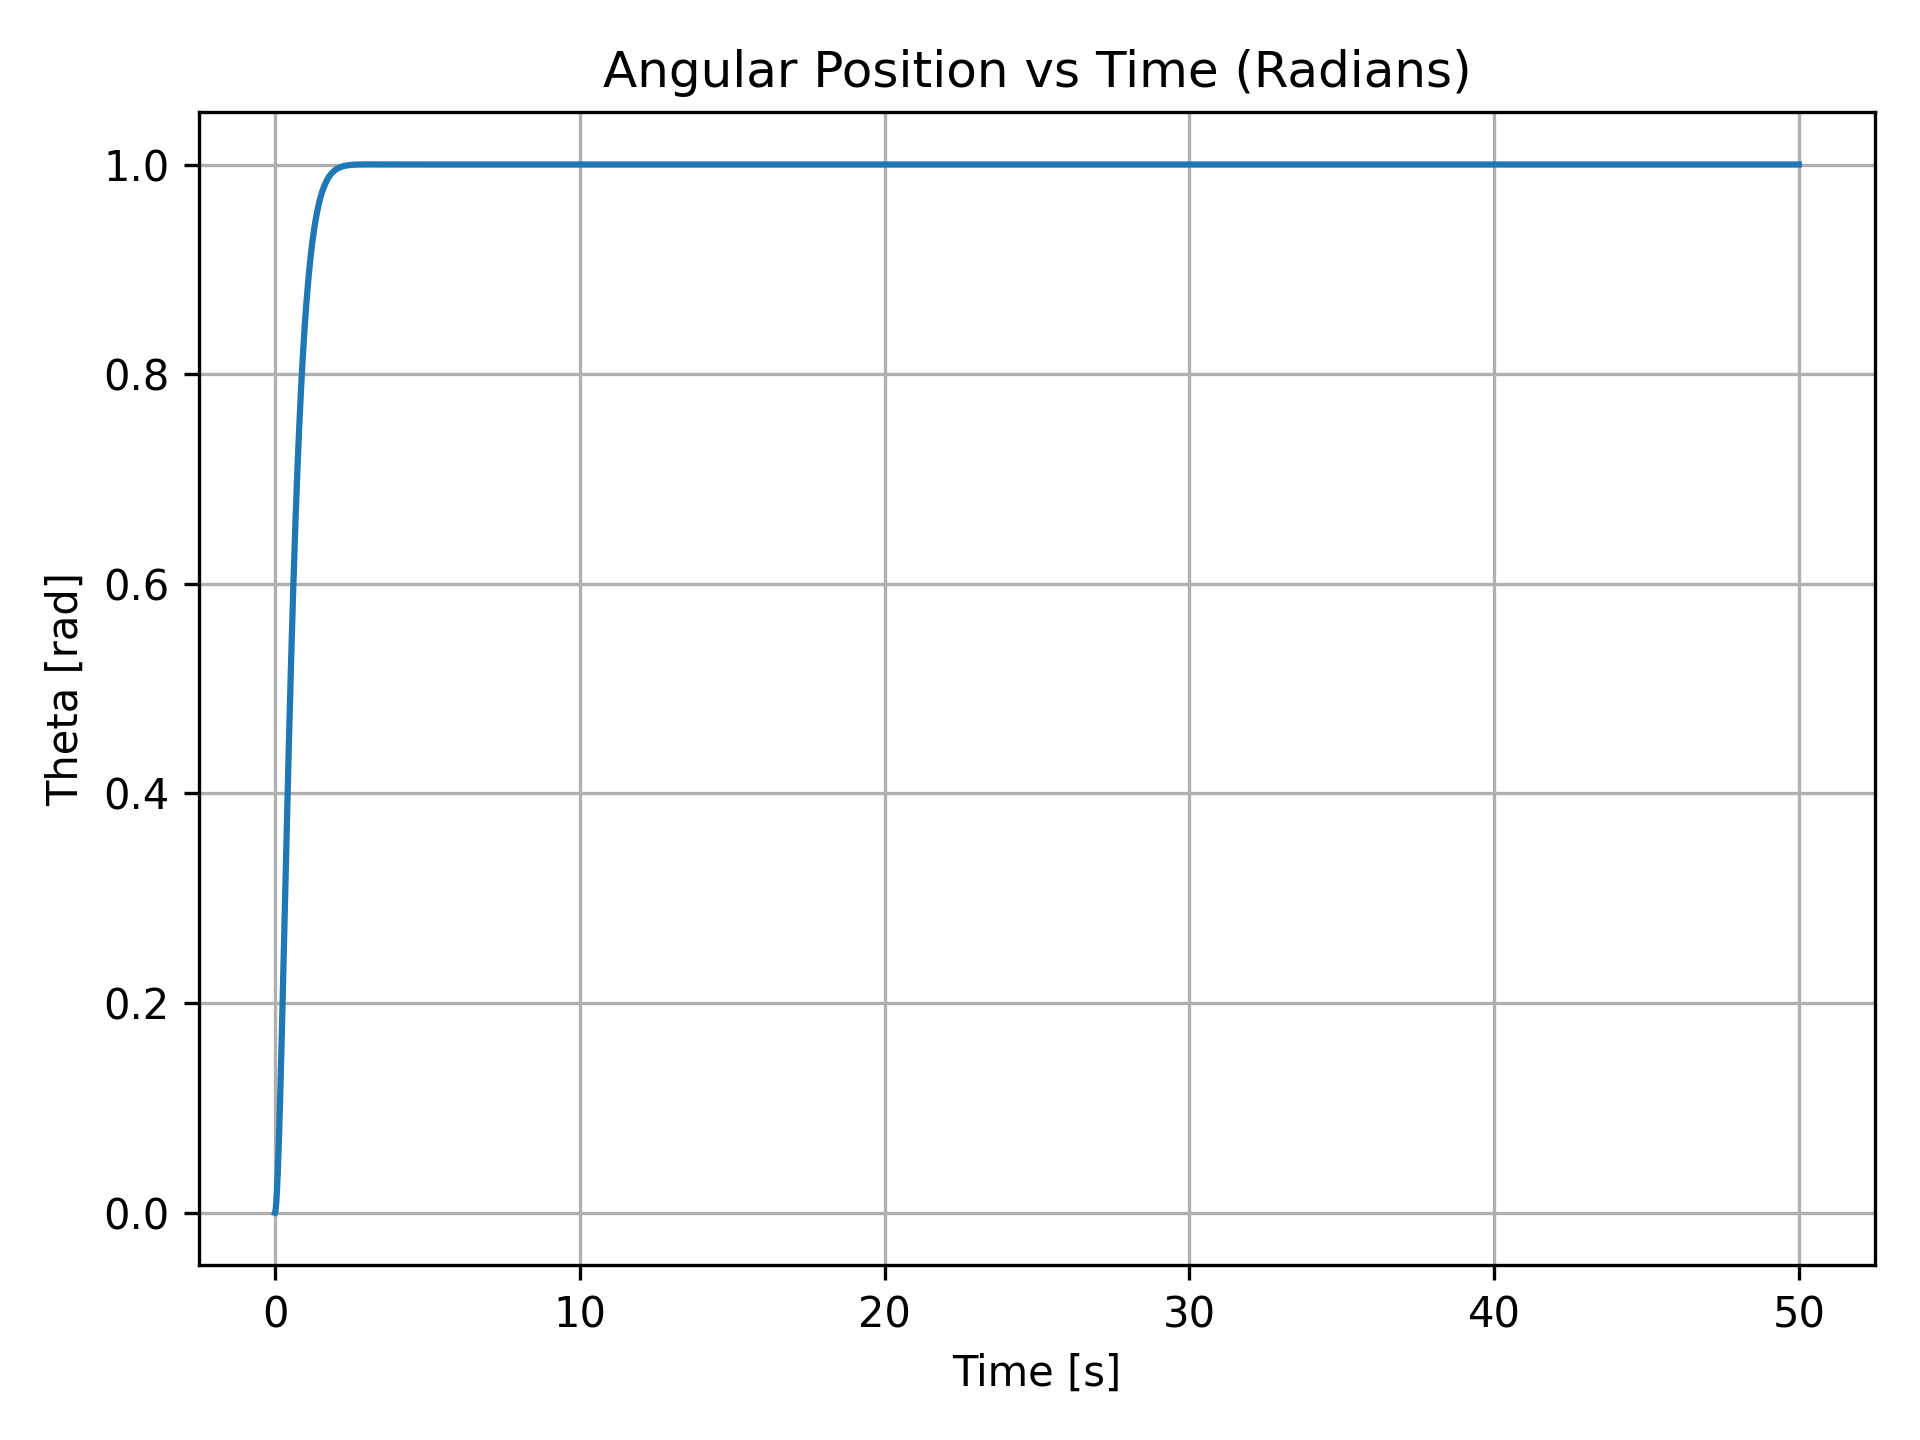
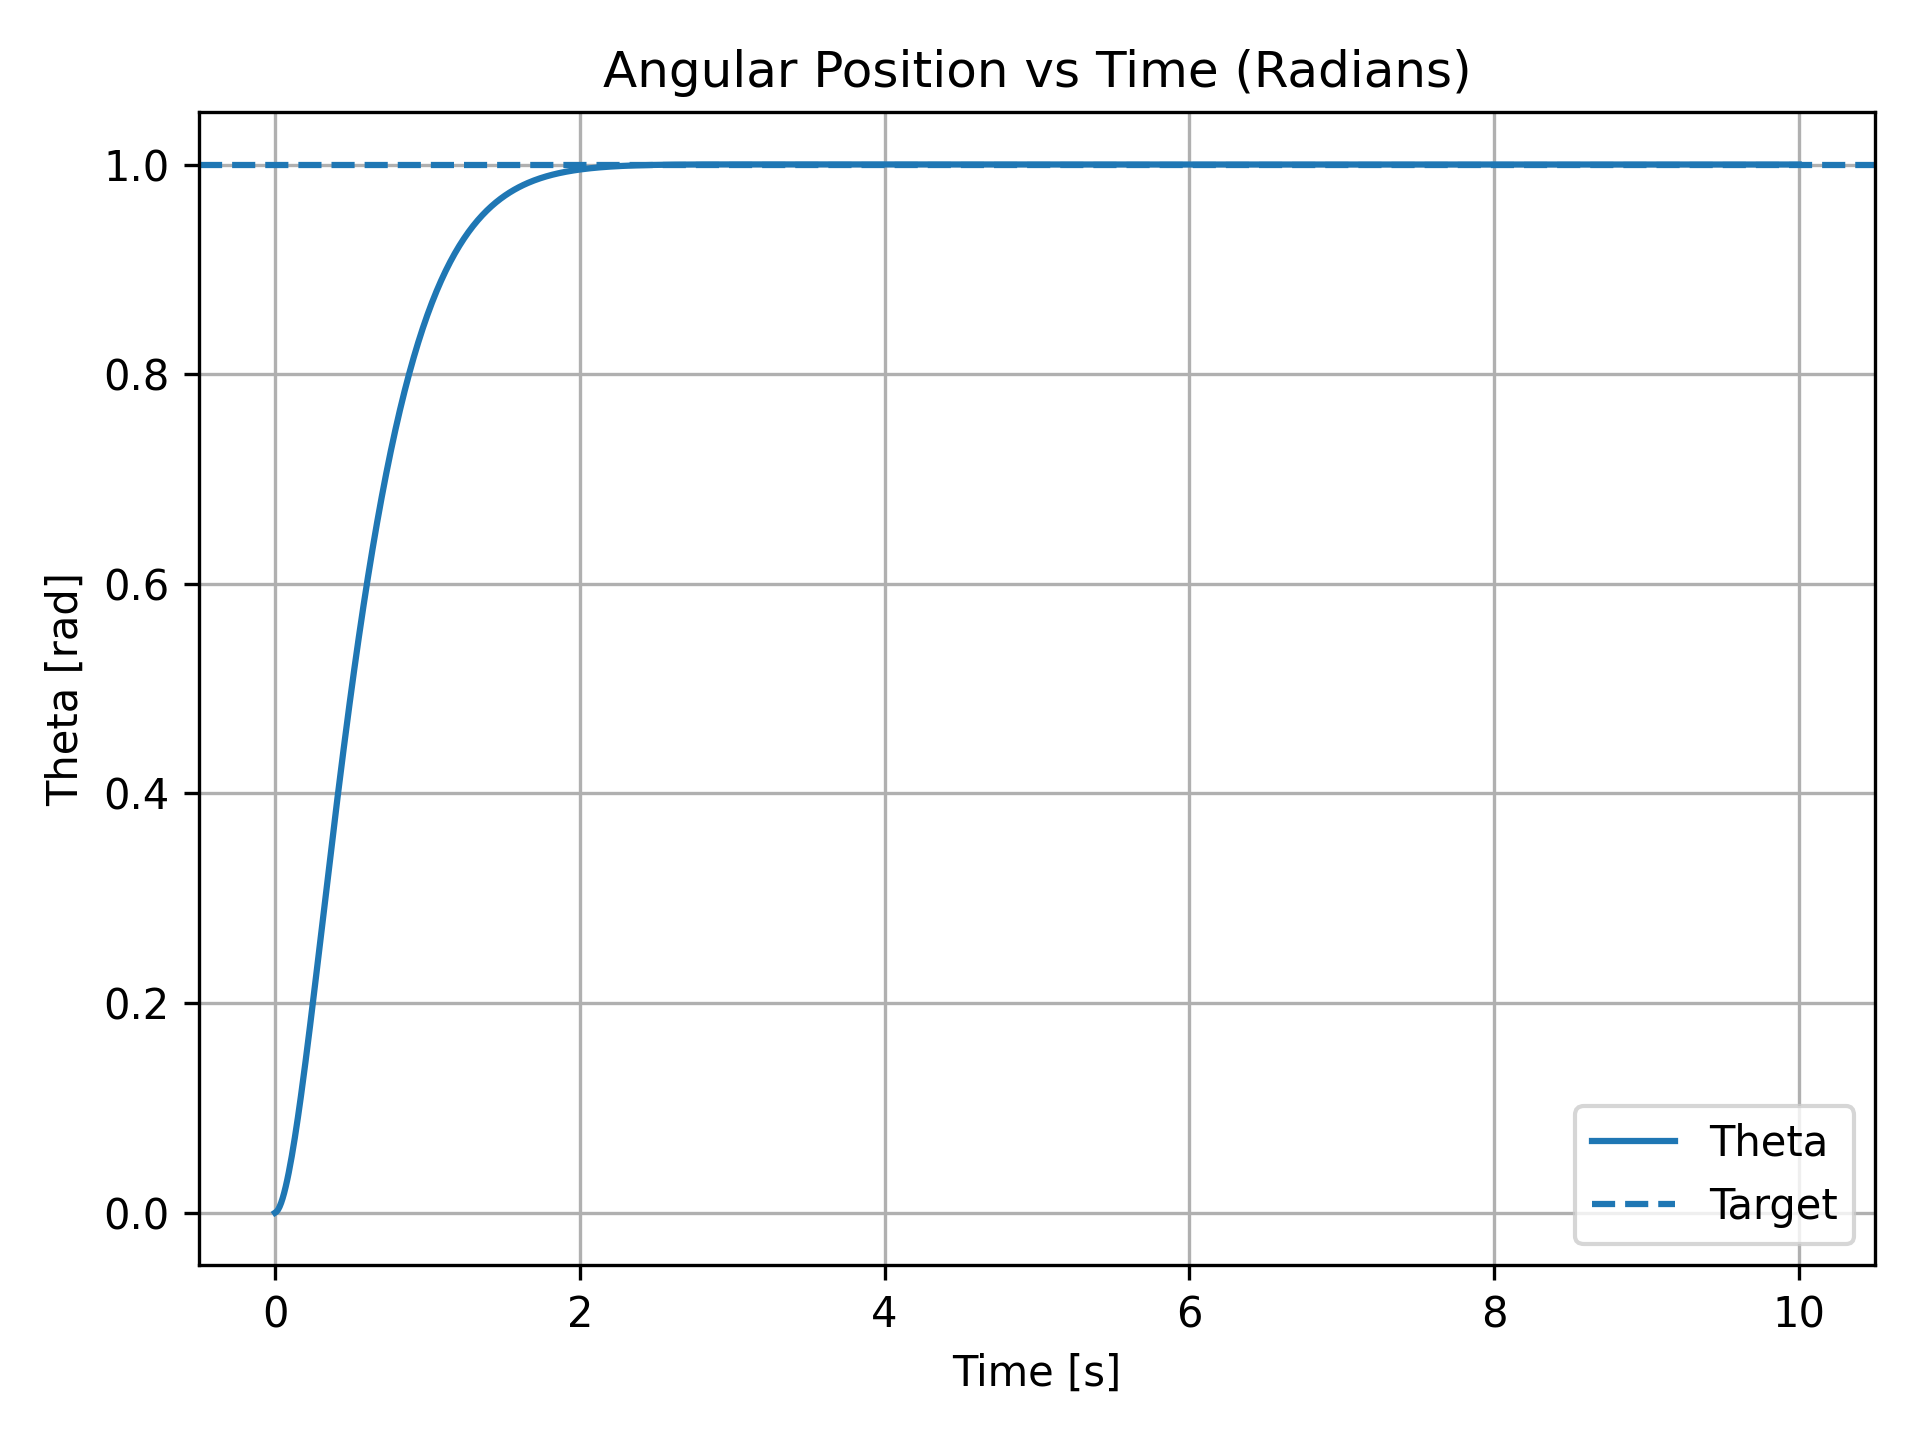
Add target reference line to plots

diff --git a/src/plotter.py b/src/plotter.py
@@ -9,7 +9,7 @@ import numpy as np
 import matplotlib.pyplot as plt
 
 
-def plot_results(times, theta, omega, torque_cmd, error_hist, show_plots=True):
+def plot_results(times, theta, omega, torque_cmd, error_hist, theta_target, show_plots=True):
     """
     Plot and save angular position and angular velocity versus time.
 
@@ -26,10 +26,12 @@ def plot_results(times, theta, omega, torque_cmd, error_hist, show_plots=True):
 
     # Angular position in radians
     plt.figure()
-    plt.plot(times, theta)
+    plt.plot(times, theta, label="Theta")
+    plt.axhline(y=theta_target, linestyle="--", label="Target")
     plt.title("Angular Position vs Time (Radians)")
     plt.xlabel("Time [s]")
     plt.ylabel("Theta [rad]")
+    plt.legend()
     plt.grid()
     plt.tight_layout()
     plt.savefig(results_dir / "angular_position_rad.png", dpi=300)
@@ -39,10 +41,12 @@ def plot_results(times, theta, omega, torque_cmd, error_hist, show_plots=True):
 
     # Angular position in degrees
     plt.figure()
-    plt.plot(times, theta_deg)
+    plt.plot(times, theta_deg, label="Theta")
+    plt.axhline(y=np.degrees(theta_target), linestyle="--", label="Target")
     plt.title("Angular Position vs Time (Degrees)")
     plt.xlabel("Time [s]")
     plt.ylabel("Theta [deg]")
+    plt.legend()
     plt.grid()
     plt.tight_layout()
     plt.savefig(results_dir / "angular_position_deg.png", dpi=300)

diff --git a/src/main.py b/src/main.py
@@ -30,7 +30,7 @@ def main():
         t_final_s=T_FINAL_S,
     )
 
-    plot_results(times, theta, omega, torque_cmd, error_hist, show_plots=True)
+    plot_results(times, theta, omega, torque_cmd, error_hist, THETA_TARGET_RAD, show_plots=True)
 
 
 if __name__ == "__main__":

diff --git a/src/config.py b/src/config.py
@@ -14,4 +14,4 @@ KP = 0.5                  # Propotional gain
 KD = 0.3                  # Derivative gain
 
 DT_S = 0.01               # Simulation time step [s]
-T_FINAL_S = 50.0          # Total simulation time [s]
+T_FINAL_S = 10.0          # Total simulation time [s]

diff --git a/README.md b/README.md
@@ -54,7 +54,7 @@ Control torque vs time
 ![Angular Position Deg](results/angular_position_deg.png)
 
 ### Angular Velocity (Radians/sec)
-![Angular Velocity Rad/s](results/velocity.png)
+![Angular Velocity Rad/s](results/angular_velocity.png)
 
 ### Attitude Error
 ![Attittude Error](results/attitude_error.png)
